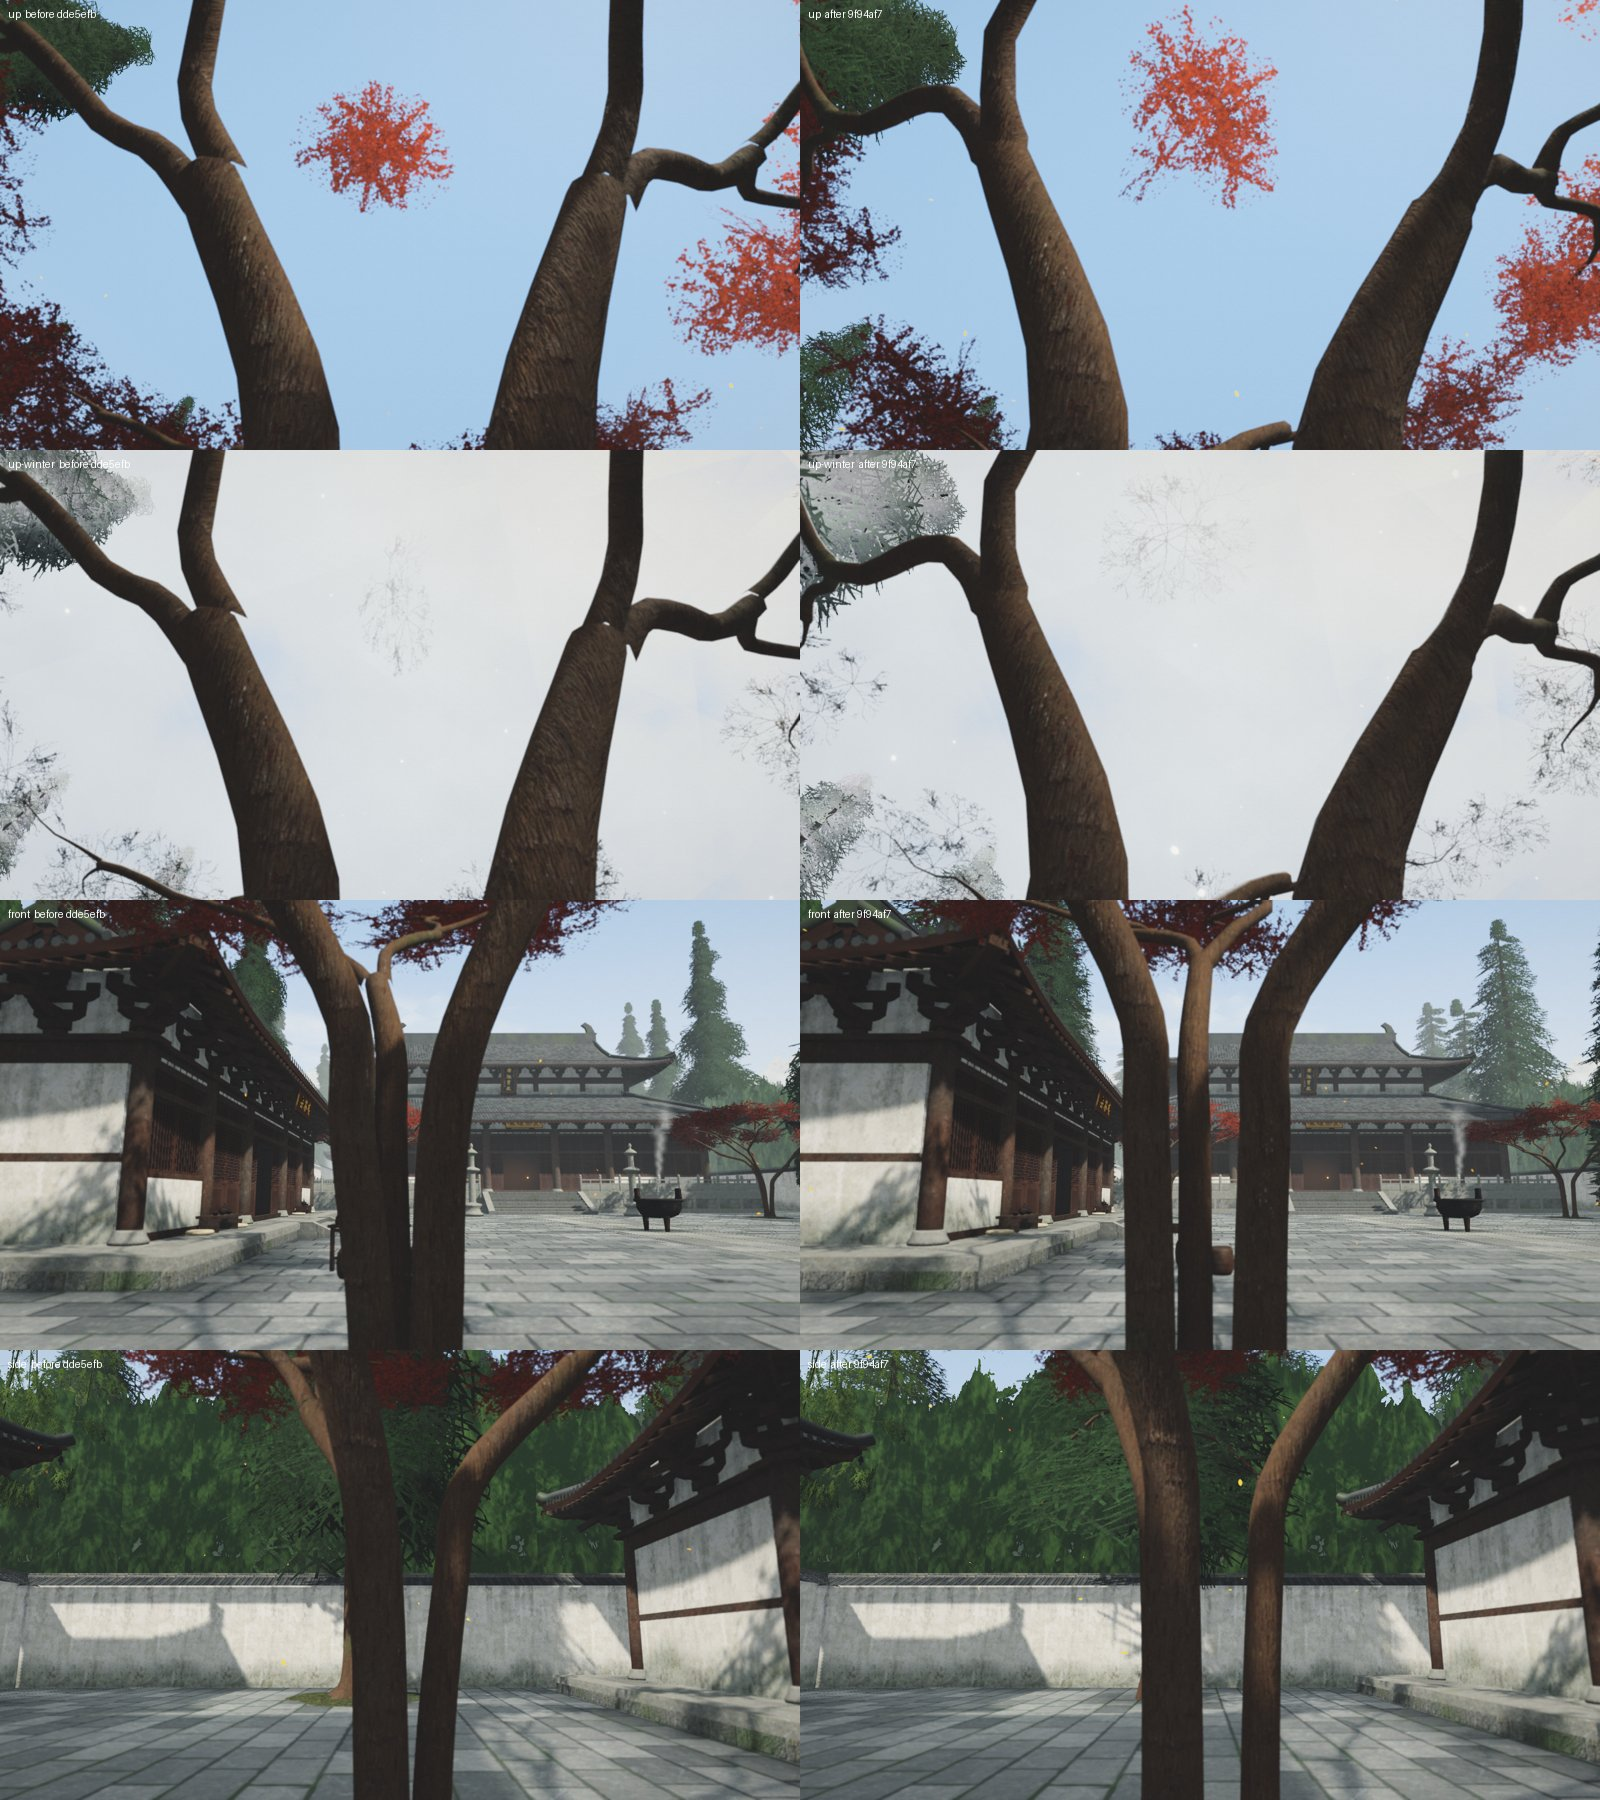
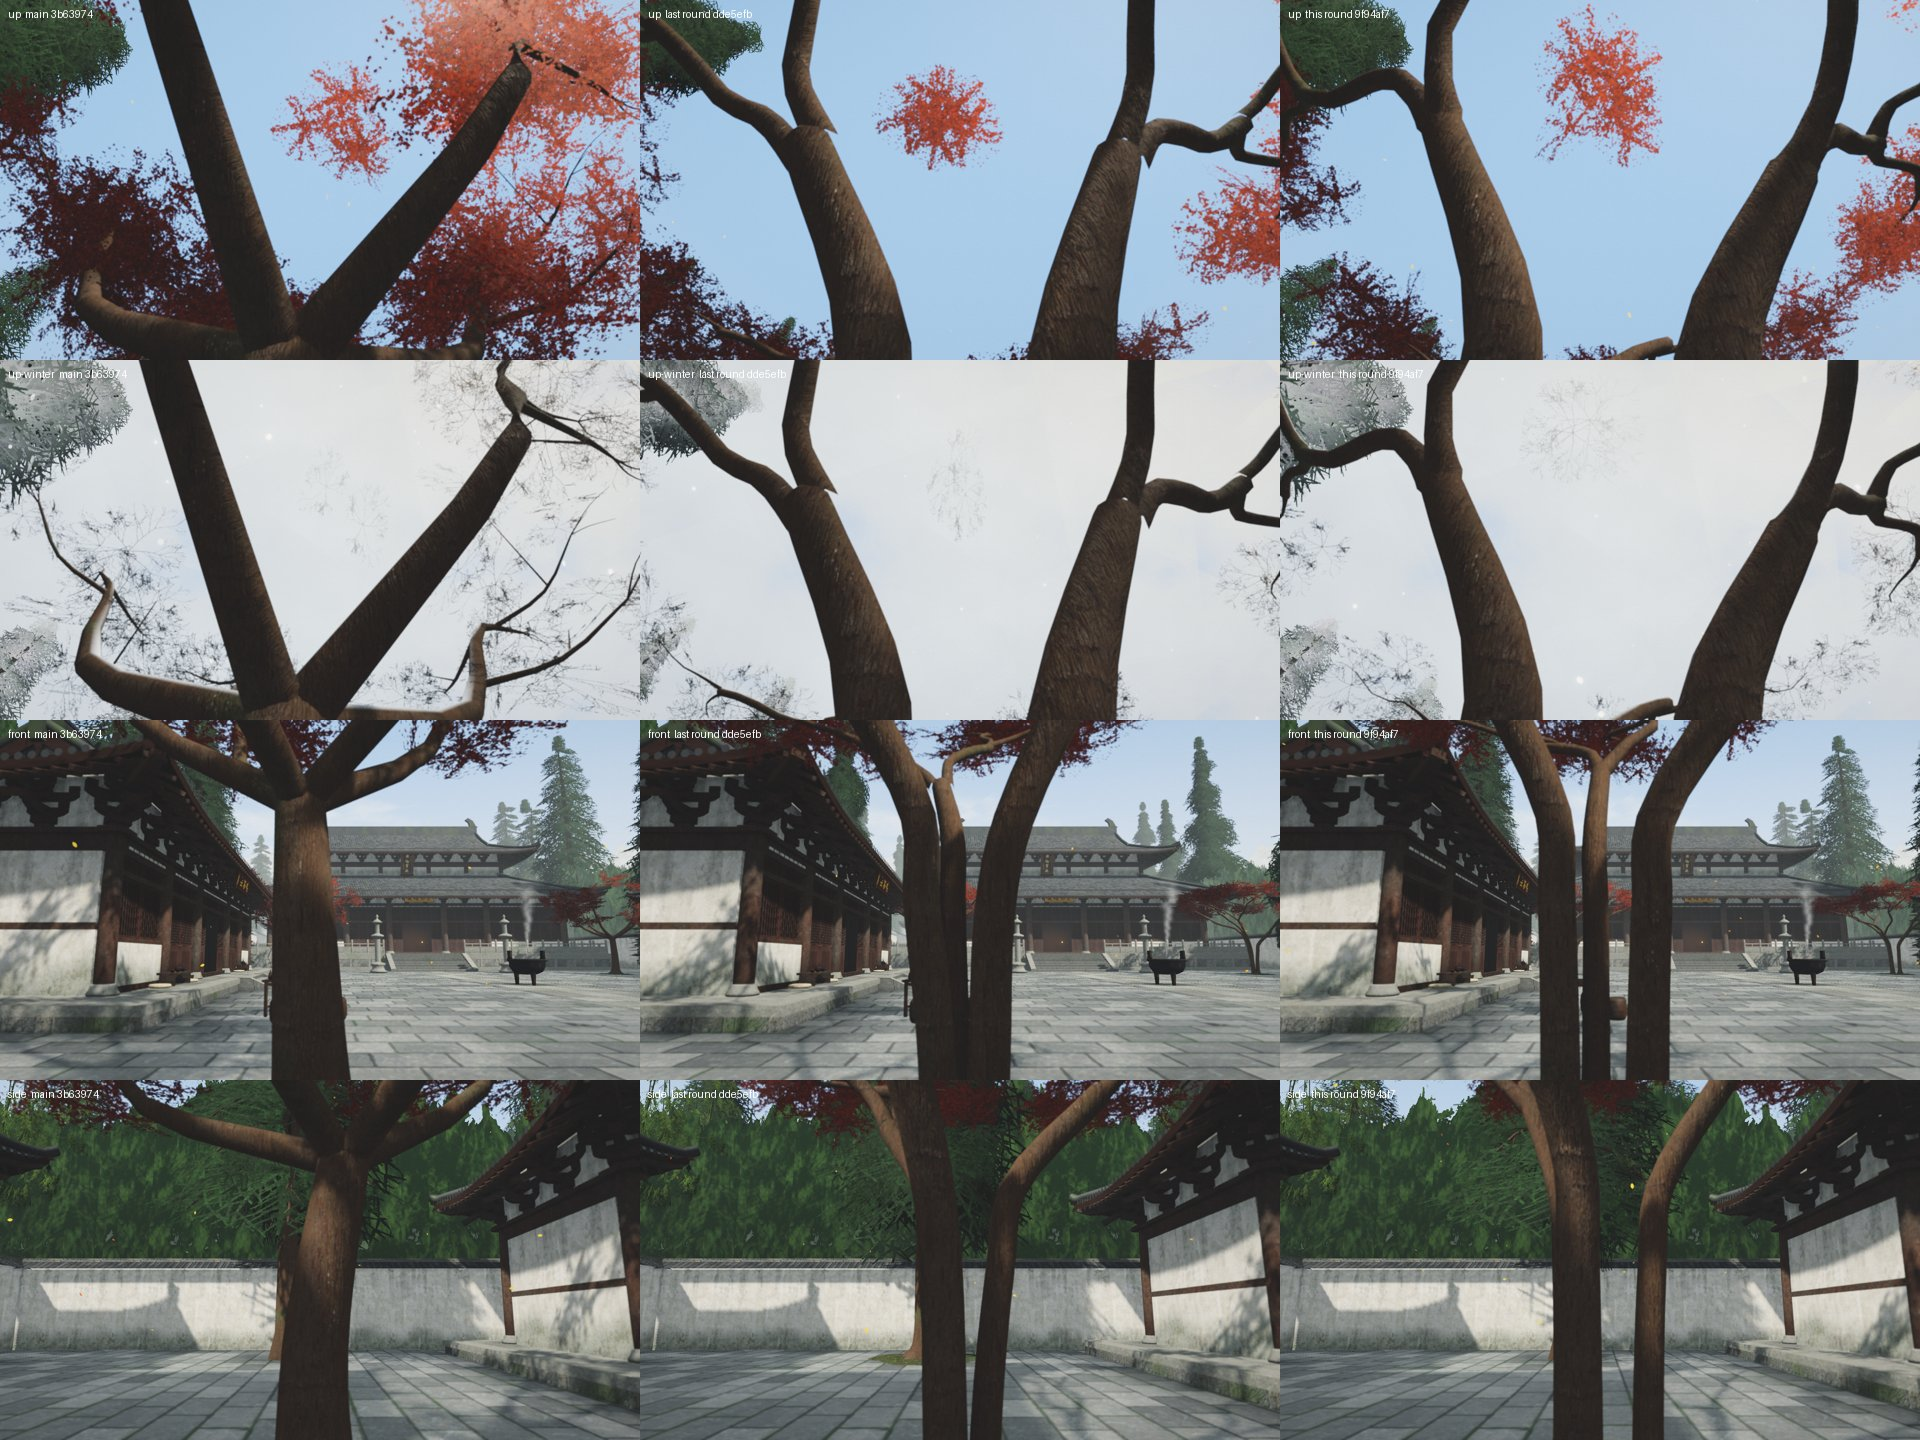
docs(t00): the maple's joints against the real main, and what each cedar picture was taken on
The maple's before is now main 3b63974 beside last round's branch. The cedar evidence says its before column was
taken on f20e0f0 (the main of 2026-11-16), not on 15ea861, which #199 merged into.

Claude-Session: https://claude.ai/code/session_01Cq65vJumcTfAF533vCLHEu

diff --git a/docs/t00/evidence/trees-92-93/README.md b/docs/t00/evidence/trees-92-93/README.md
@@ -1,0 +1,16 @@
+# #200 枫与分叉（T4）
+
+## 交接处（3D 评审 6970309915 之后）
+
+- **`joints-t4-before-after.jpg`**：首院西侧枫（-9.5, 28）。四行依次是仰视秋昼 `-9.5,29.0,0,1.2`、仰视冬昼（同一机位）、正视 `-9.5,30.2,0,0.15`、侧视 `-7.3,28,-1.571,0.15`，均为第一人称，1600×900，`?shot=1&q=high`。三列：
+  - 左：main `3b63974`，run `20261118-092319`，报告 `joints-t4-main.json`。
+  - 中：上一轮的分支 `dde5efb`，run `20261118-054313`，报告 `joints-t4-before.json`。
+  - 右：这一轮 `9f94af7`，run `20261118-092003`，报告 `joints-t4-after.json`。
+  - 三次 run 都不带 `+dirty`。
+- **`joints-t4-crops.jpg`**：从原图截出交接处放大，三列与上图相同。
+  - 中列：子枝第一圈露在母枝外，形成锯齿唇口，冬天仰视透光；正视里两干贴着长，中间夹一条窄干。
+  - 右列：唇口没有了，三根干分开了。
+
+## 上一轮
+
+- **`maple-t4-before-after.jpg`**：main 对分支的枫，报告 `t4-main.json`、`t4-branch.json`。

diff --git a/docs/t00/evidence/trees-cedar/README.md b/docs/t00/evidence/trees-cedar/README.md
@@ -1,0 +1,7 @@
+# #199 柳杉：改前、改后（T4）
+
+- **`cedar-t4-clean-before-after.jpg`**：左列是改前，右列是改后。五个画面：幼柳杉夏昼、柳杉全貌秋昼、柳杉全貌冬昼、前庭冬昼、回望秋昼。
+  - **改前一列拍的是 `f20e0f0`（2026-11-16 的 main），不是合入时的 main `15ea861`**。原因是本地的 main 引用没有更新。所以这一列不含 #159、#178、#197，柳杉还是 #197 修之前的树干和根脚。
+  - 改后一列是 `651a558`（本分支并入 `15ea861` 之后）。
+  - 两列都从已提交的代码出图，不带 `+dirty`。报告：`t4-clean-main.json`（run `20261118-083904`）、`t4-clean-head.json`（run `20261118-083909`）。
+- **`cedar-t4-before-after.jpg` 与 `t4-report.json`**：同一个 Job 里新旧柳杉交替三次（run `20261118-052520`）。旧柳杉放在测量副本的 `?trees=old` 后面，那段代码不提交，所以 site 指纹带 `+dirty`。帧耗以这一组为准：前庭 high 1080p，新比旧多 0.15 ms。
